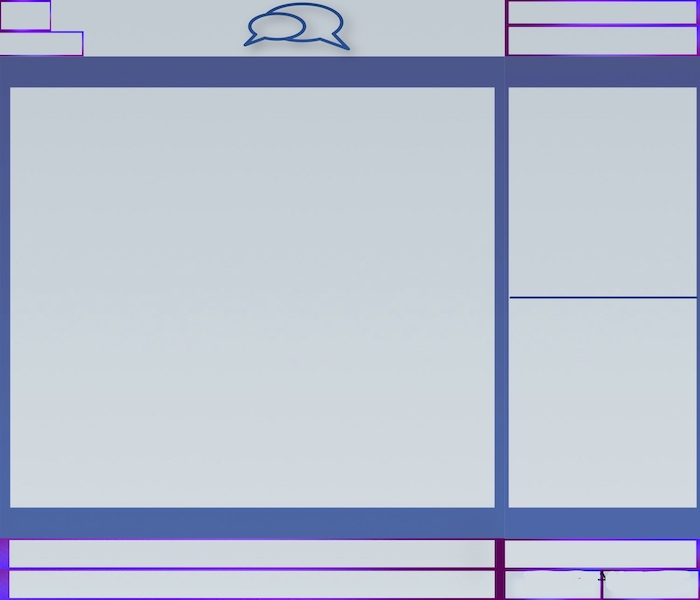
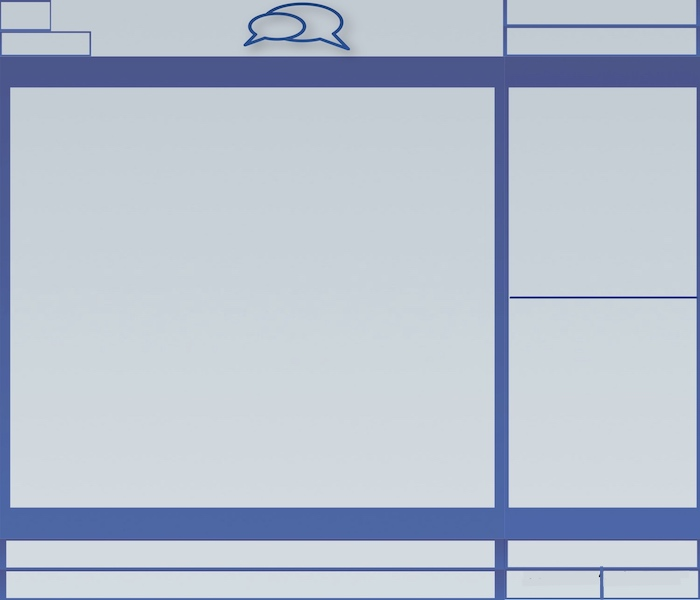
modeling

diff --git a/Client/frontend/client_gui.py b/Client/frontend/client_gui.py
@@ -41,15 +41,16 @@ class Room:
         self.generate_background(name="Login.png", window=self.chat_login)
 
         # name label & entry:
-        txt_name = Entry(self.chat_login)
+        txt_name = Entry(self.chat_login, font=("Helvetica", 13))
         txt_name.insert(0, "Username")
         txt_name.place(relheight=0.0580, relwidth=0.3850, relx=0.308, rely=0.4885)
         # connect button:
         # TODO: find better solution
-        connect = Button(self.chat_login, text="Connect", command=lambda: self.controller.connect(self.chat_login,
-                                                                                                  self.chat_window,
-                                                                                                  txt_name,
-                                                                                                  self.chat_box))
+        connect = Button(self.chat_login, text="Connect", borderwidth=0, font=("Helvetica", 13),
+                         command=lambda: self.controller.connect(self.chat_login,
+                                                                 self.chat_window,
+                                                                 txt_name,
+                                                                 self.chat_box))
         connect.place(relheight=0.0580, relwidth=0.3850, relx=0.308, rely=0.6080)
 
     def chat_window_builder(self):
@@ -67,7 +68,8 @@ class Room:
         """
         This is the chat box where messages appear after sending 
         """
-        self.chat_box = Text(self.chat_window, font=("Helvetica", 14))
+        self.chat_box = Text(self.chat_window, font=("Helvetica", 14), bg="#17202A",
+                             fg="#EAECEE")
         self.chat_box.config(state=DISABLED)
         self.chat_box.place(relheight=0.7030, relwidth=0.6980, relx=0.0080, rely=0.1480)
         self.scrollbar(0.972, self.chat_box)
@@ -76,7 +78,8 @@ class Room:
         """
         This is the text box where all the clients will appear
         """
-        clients_box = Text(self.chat_window, font=("Helvetica", 14))
+        clients_box = Text(self.chat_window, font=("Helvetica", 14), bg="#17202A",
+                           fg="#EAECEE")
         clients_box.insert('1.0', "People: \n")
         clients_box.config(state=DISABLED)
         clients_box.place(relheight=0.3465, relwidth=0.2680, relx=0.723, rely=0.1480)
@@ -86,7 +89,8 @@ class Room:
         """
         This is the text box where the files of the server will appear
         """
-        files_box = Text(self.chat_window, font=("Helvetica", 14))
+        files_box = Text(self.chat_window, font=("Helvetica", 14), bg="#17202A",
+                         fg="#EAECEE")
         files_box.insert('1.0', "Server Files: \n")
         files_box.config(state=DISABLED)
         files_box.place(relheight=0.3465, relwidth=0.2680, relx=0.723, rely=0.5)
@@ -96,7 +100,7 @@ class Room:
         """
         This is the Entry for the client to send messages on.
         """
-        client_msg = Entry(self.chat_window)
+        client_msg = Entry(self.chat_window, font=("Helvetica", 13))
         client_msg.insert(0, "Enter Message")
         client_msg.place(relheight=0.0450, relwidth=0.6915, relx=0.014, rely=0.9480)
 
@@ -104,7 +108,7 @@ class Room:
         """
         This is the Entry for the client to choose who to send the message
         """
-        receiver = Entry(self.chat_window)
+        receiver = Entry(self.chat_window, font=("Helvetica", 13))
         receiver.insert(0, "Name")
         receiver.place(relheight=0.0450, relwidth=0.135, relx=0.7210, rely=0.9480)
 
@@ -113,7 +117,7 @@ class Room:
         This is the send message button which sends the message the client wrote inside the entry
         """
         # TODO: make receiver viable
-        send_msg = Button(self.chat_window, text="Send", borderwidth=0,
+        send_msg = Button(self.chat_window, text="Send", borderwidth=0, fg='navy', font=("Helvetica", 13),
                           command=lambda: self.controller.send_msg(chat_box=self.chat_box, msg_box=client_msg,
                                                                    receiver=receiver))
         send_msg.place(relheight=0.0450, relwidth=0.135, relx=0.8580, rely=0.9480)
@@ -122,7 +126,7 @@ class Room:
         """
         This is the Entry for the client to choose which file to download from the server
         """
-        file_chooser = Entry(self.chat_window)
+        file_chooser = Entry(self.chat_window, font=("Helvetica", 13))
         file_chooser.insert(0, "Insert File Name")
         file_chooser.place(relheight=0.0450, relwidth=0.6915, relx=0.014, rely=0.8983)
 
@@ -130,7 +134,7 @@ class Room:
         """
         This is the Download button, it will send the file to our client
         """
-        download = Button(self.chat_window, text="Download", borderwidth=0,
+        download = Button(self.chat_window, text="Download", borderwidth=0, fg='navy', font=("Helvetica", 13),
                           command=self.controller.download)
         download.place(relheight=0.0450, relwidth=0.270, relx=0.7210, rely=0.8983)
 
@@ -138,35 +142,36 @@ class Room:
         """
         This is the exit button
         """
-        close = Image.open(self.images_path + "close.png")
-        img = ImageTk.PhotoImage(close)
-        exit_chat = Button(self.chat_window, image=img,
+        # close = Image.open(self.images_path + "close.png")
+        # img = ImageTk.PhotoImage(close)
+        exit_chat = Button(self.chat_window, text="Exit", borderwidth=0, fg='navy', font=("Helvetica", 13),
                            command=lambda: self.controller.exit_chat(self.chat_login, self.chat_window))
         exit_chat.place(relheight=0.0440, relwidth=0.065, relx=0.0075, rely=0.0073)
-        exit_chat.image = img
+        # exit_chat.image = img
 
         # clear chat button:
         """
         This button clears the chat box messages 
         """
-        clear_chat = Button(self.chat_window, text="Clear Chat", borderwidth=0,
+        clear_chat = Button(self.chat_window, text="Clear Chat", borderwidth=0, fg='navy', font=("Helvetica", 13),
                             command=lambda: self.controller.clear_chat(text_box=self.chat_box))
-        clear_chat.place(relheight=0.03, relwidth=0.11, relx=0.0075, rely=0.06)
+        clear_chat.place(relheight=0.03, relwidth=0.12, relx=0.0075, rely=0.06)
 
         # get clients button:
         """
         This button shows the clients in the server
         """
-        get_clients = Button(self.chat_window, text="Show Connected", borderwidth=0,
+        get_clients = Button(self.chat_window, text="Show Connected", borderwidth=0, fg='navy', font=("Helvetica", 13),
                              command=lambda: self.controller.get_clients(data_box=clients_box))
-        get_clients.place(relheight=0.0340, relwidth=0.2650, relx=0.7255, rely=0.005)
+        get_clients.place(relheight=0.0440, relwidth=0.2650, relx=0.7255, rely=0.002)
 
         # get files button
         """
         This button shows the files in the server
         """
-        get_files = Button(self.chat_window, text="Show Files", borderwidth=0, command=self.controller.get_files)
-        get_files.place(relheight=0.0440, relwidth=0.2650, relx=0.7255, rely=0.0475)
+        get_files = Button(self.chat_window, text="Show Files", borderwidth=0, fg='navy', font=("Helvetica", 13),
+                           command=self.controller.get_files)
+        get_files.place(relheight=0.0440, relwidth=0.2650, relx=0.7255, rely=0.0485)
 
     def scrollbar(self, x: float, txt: Text):
         """
@@ -175,7 +180,7 @@ class Room:
         :param txt: a text box to place the scroll bar on
         :return:
         """
-        scrollbar = Scrollbar(txt)
+        scrollbar = Scrollbar(txt, cursor='dot', orient=VERTICAL)
         scrollbar.place(relheight=1, relx=x)
         scrollbar.config(command=txt.yview)
 

diff --git a/Client/Controller/Controller.py b/Client/Controller/Controller.py
@@ -64,7 +64,7 @@ class Controller:
         msg_box.delete(0, END)
         # Display the msg:
         chat_box.config(state=NORMAL)
-        chat_box.insert(END, '\n' + 'ME:' + ": " + msg)
+        chat_box.insert(END, '\n ME: ' + msg)
         chat_box.config(state=DISABLED)
         chat_box.update()
 
